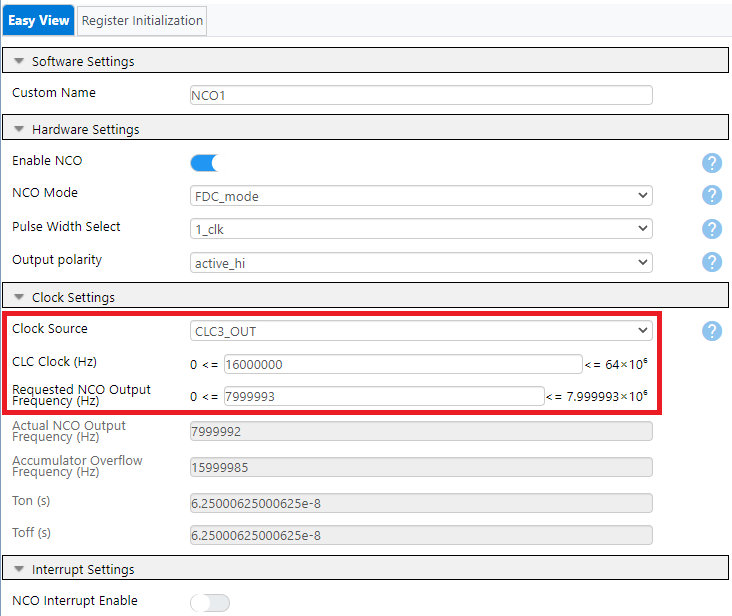
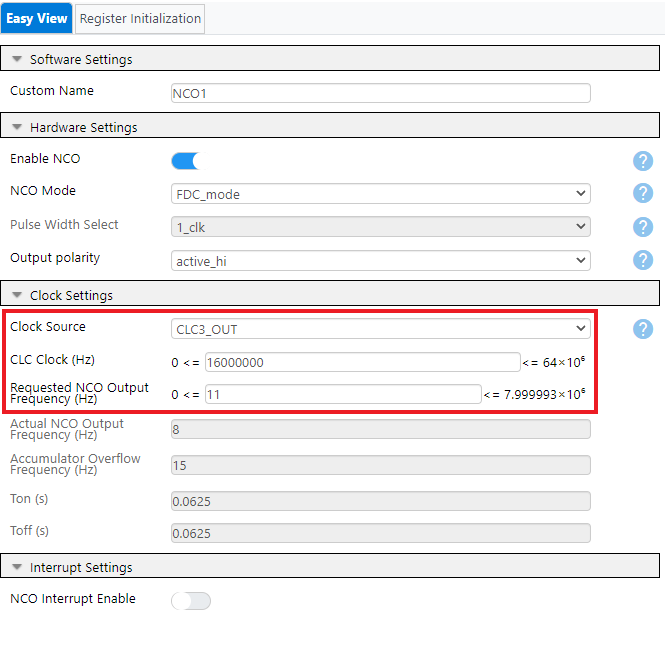
MPAE-14630: Updated readme and images.

Changed region(s): [[0.0, 0.0, 1.0, 0.987], [0.9865, 0.8945, 1.0, 0.9562]]

diff --git a/README.md b/README.md
@@ -174,7 +174,7 @@ Click on Interrupt Manager in the Project Resouces list to open the configuratio
 ### Setup - NCO1
 Click on NCO1 from the Project Resource list to open the configuration menu. Within the menu, modify the following settings in the order they are listed:
 1. **CLC Clock (Hz):** Change the value to be 16MHz (16000000 Hz)
-2. **Requested NCO Output Frequency:** Change the value to 7999993Hz (max possible for 16MHz in above setting)
+2. **Requested NCO Output Frequency:** Change the value to 11Hz (the value that corresponds to NCO1INCU = 0x0, NCO1INCH = 0x0, and NCO1INCL = 0x1)
 3. **Clock Source:** Select 'CLC3_OUT' from the dropdown menu
 
 These NCO settings are also shown within the red boxes in Figure 13.
